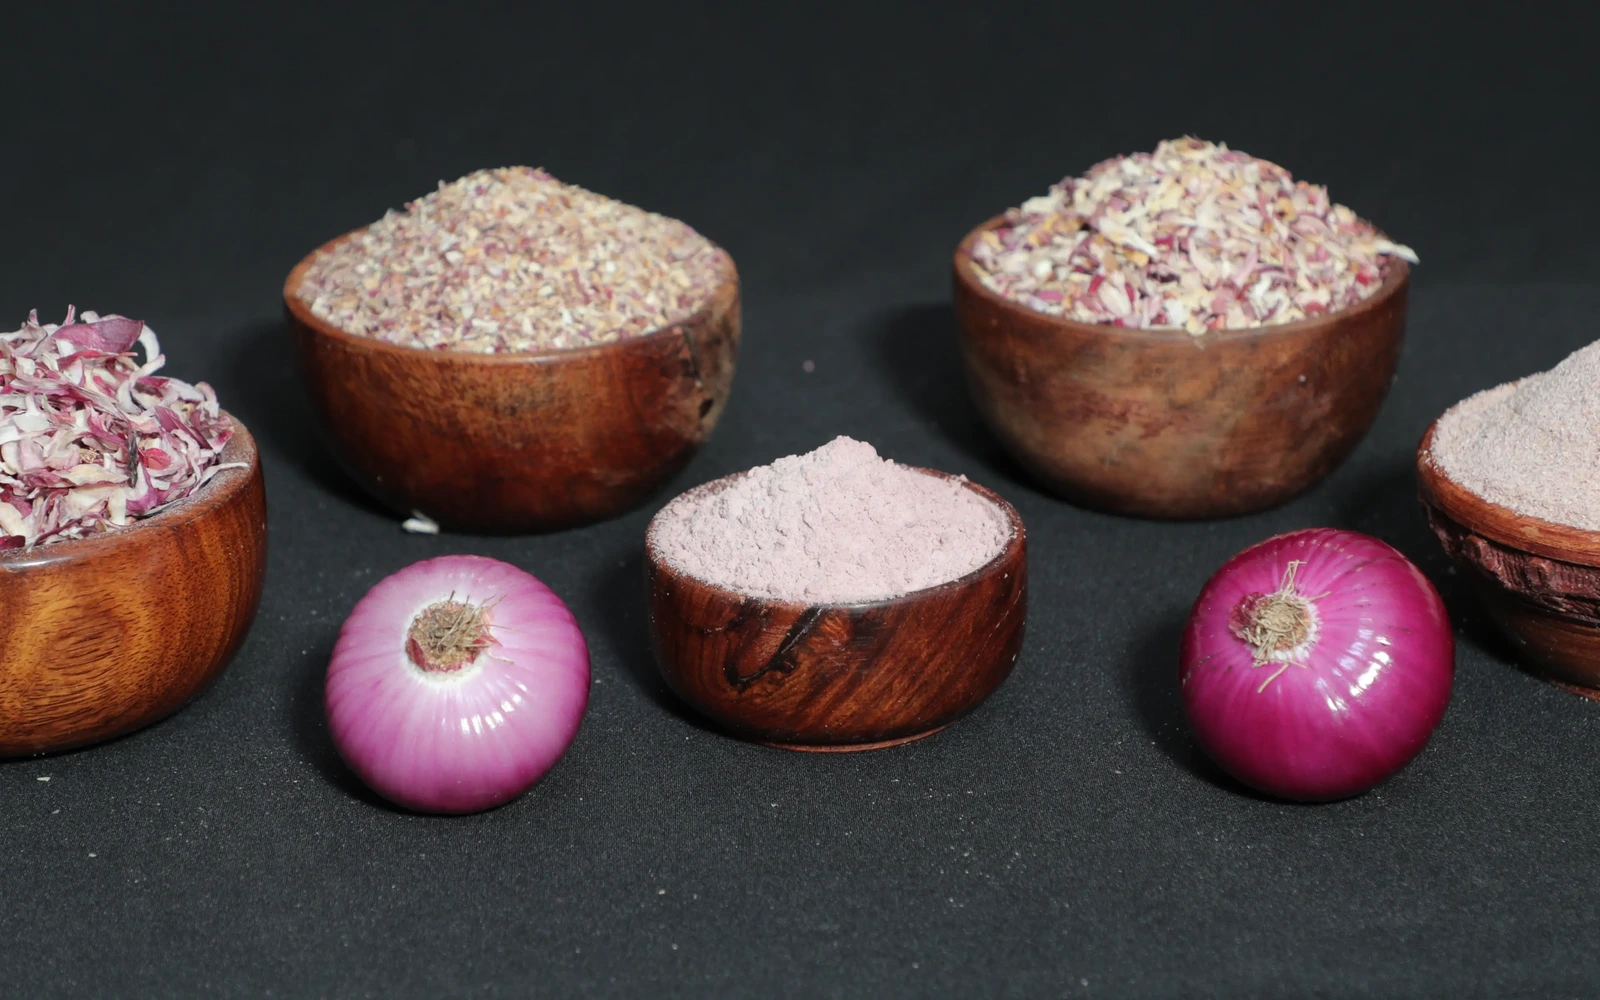
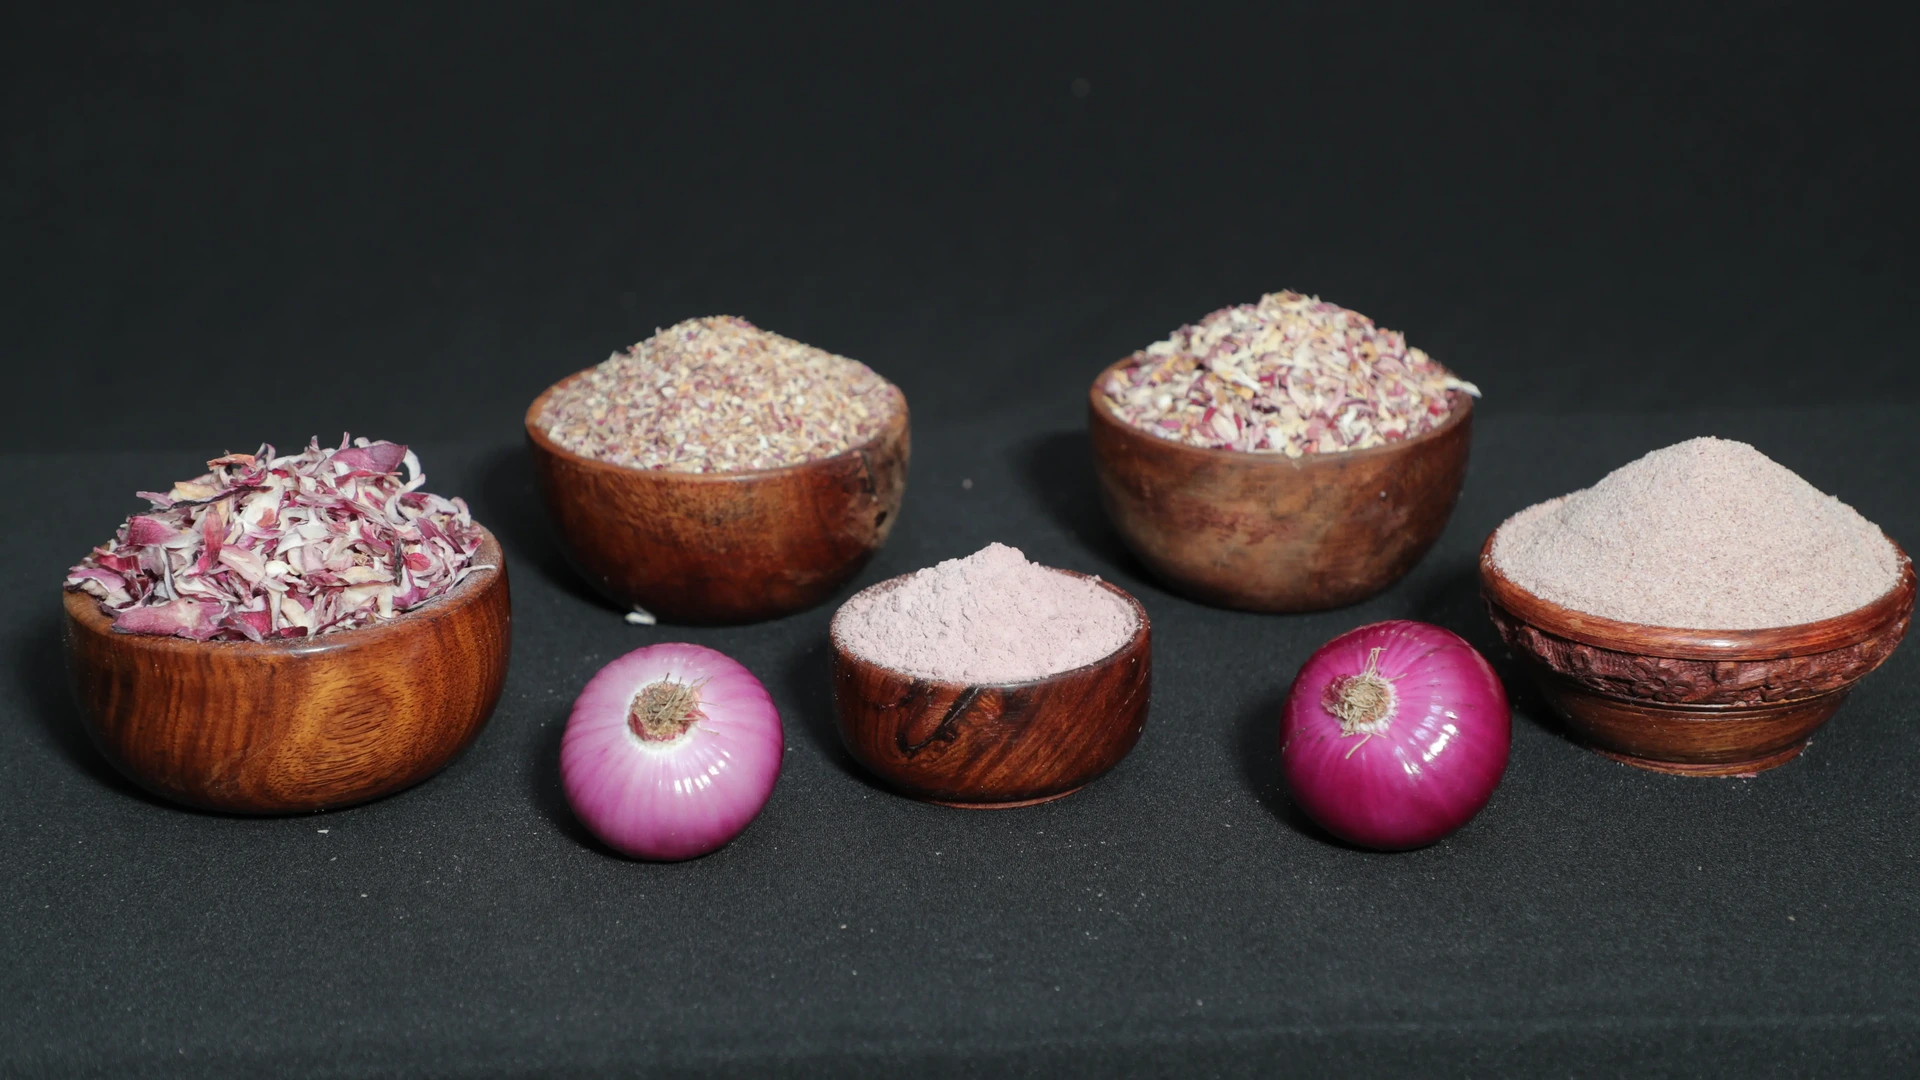
fix(home): preserve 100% full width of all product bowls with true 16:9 uncropped aspect ratio

diff --git a/lib/pages/home_page.dart b/lib/pages/home_page.dart
@@ -1448,7 +1448,7 @@ class _HomePageState extends State<HomePage> {
                 child: Container(
                   color: const Color(0xFF16161D),
                   child: AspectRatio(
-                    aspectRatio: 16 / 10,
+                    aspectRatio: 16 / 9,
                     child: Image.asset(
                       imagePath,
                       fit: imageFit,
